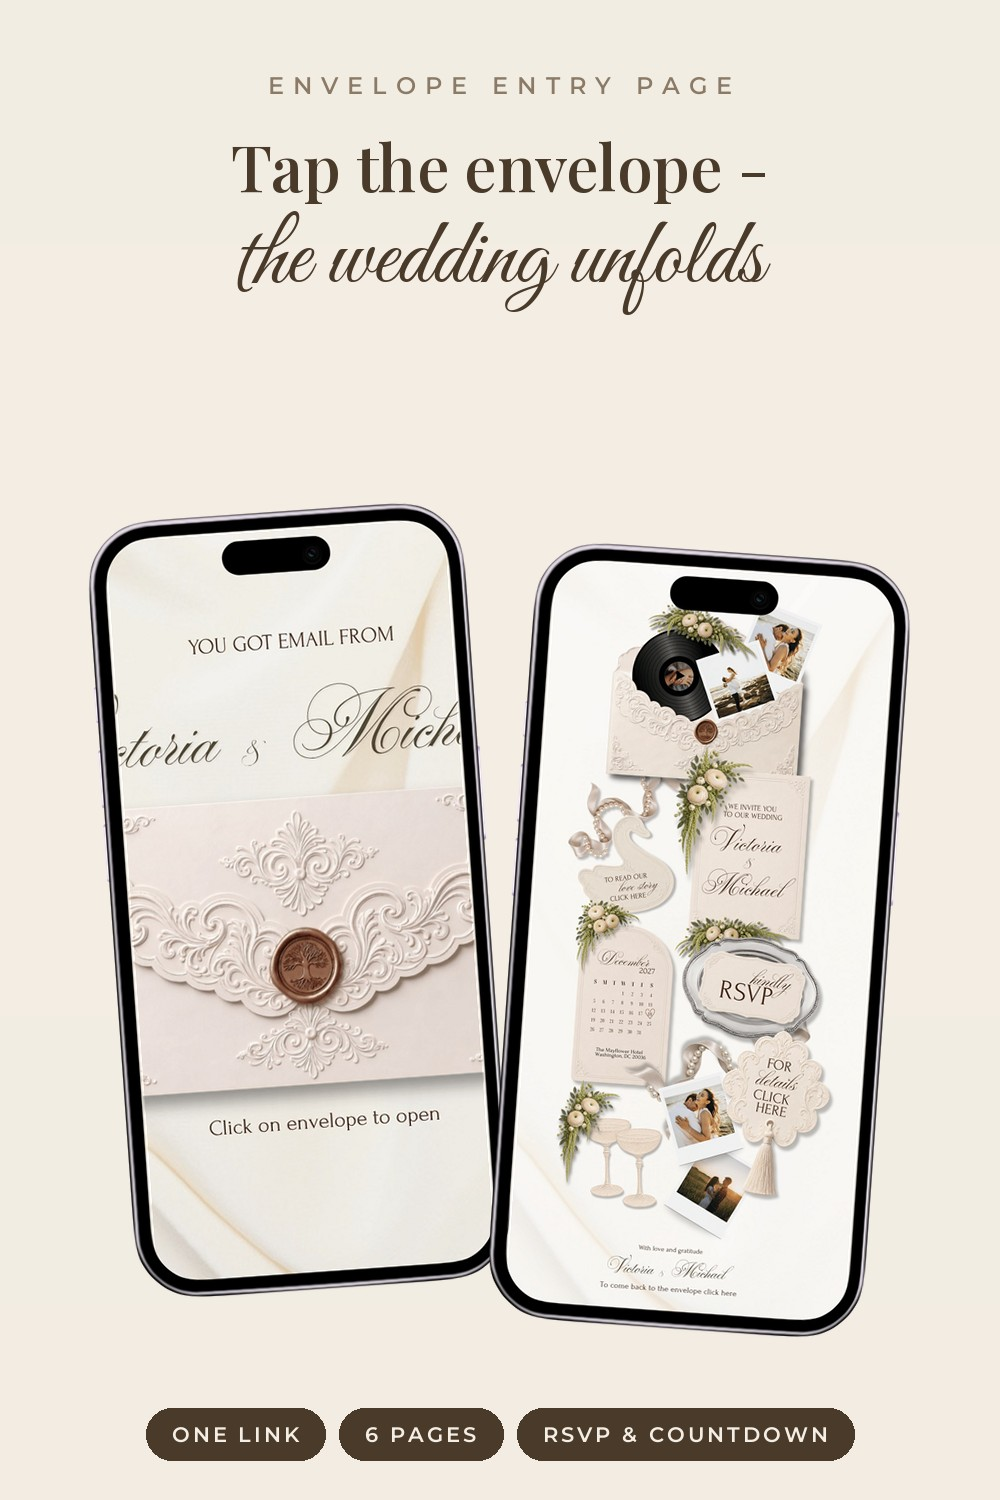
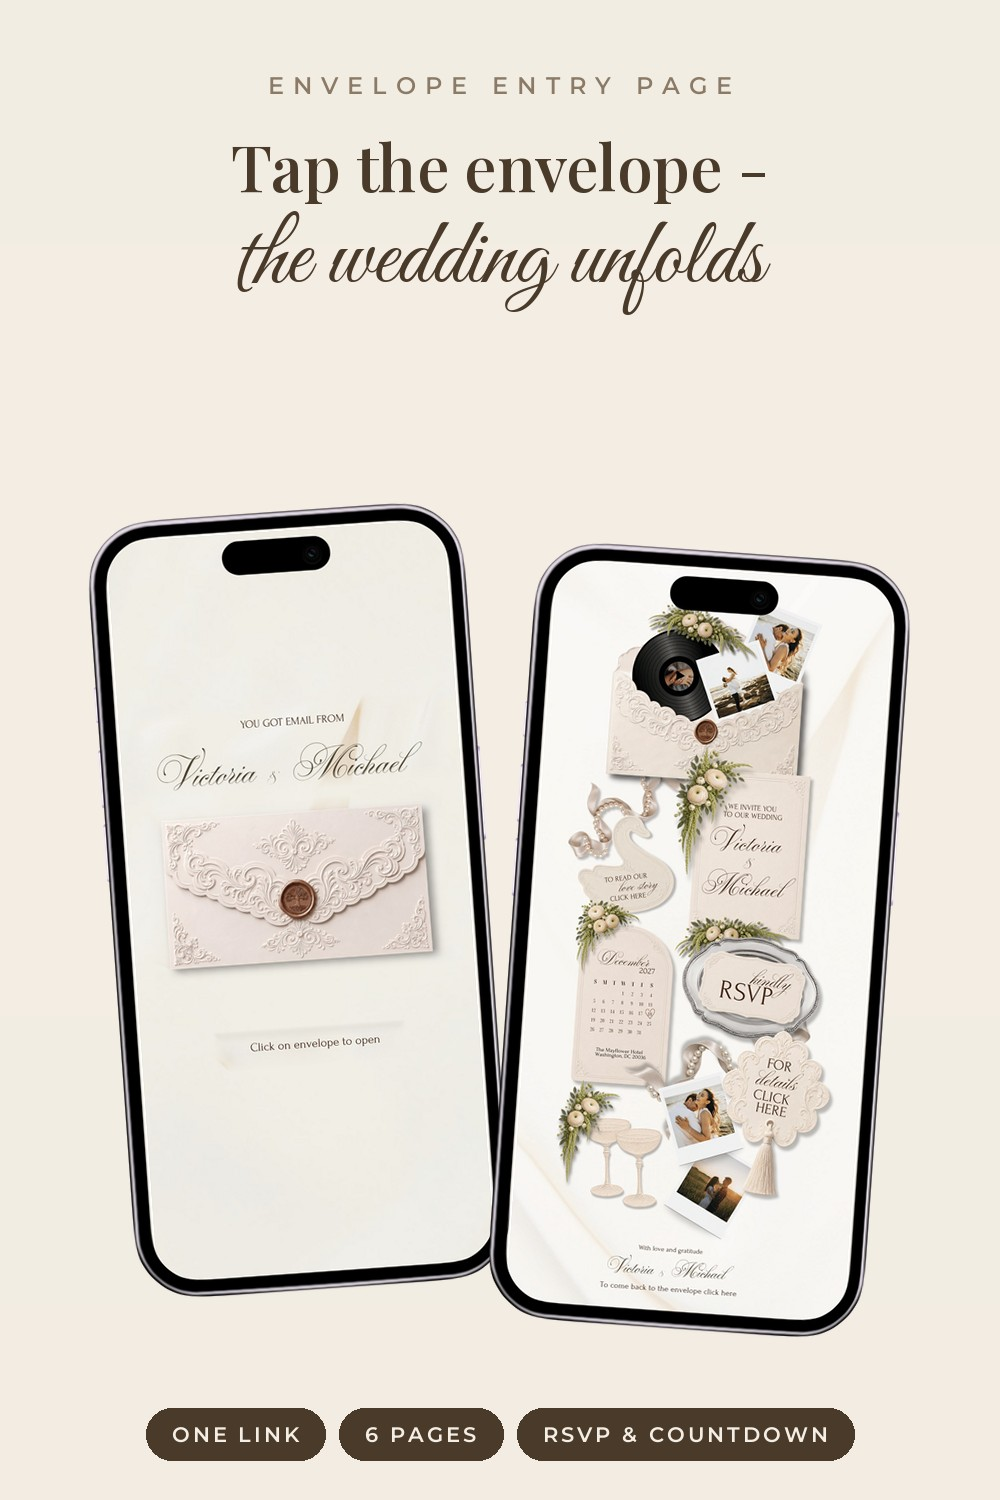
Duo pin: rebuild left phone with the mobile envelope layout (full names, large envelope)
Claude-Session: https://claude.ai/code/session_011kmtsDqSjDmuRsYCGyqzjP

Changed region(s): [[0.124, 0.3987, 0.496, 0.8587], [0.279, 0.3987, 0.31, 0.4293], [0.248, 0.828, 0.279, 0.8587]]

diff --git a/pins/victoria-michael-website/make_pins.py b/pins/victoria-michael-website/make_pins.py
@@ -429,6 +429,37 @@ def pin_vinyl():
     save(img, "pin-vinyl.jpg")
 
 
+
+
+def mobile_envelope_screen():
+    """Rebuild the mobile rendering of the envelope entry page: silk
+    background with the names, envelope and caption restacked large,
+    matching how the live Canva site reflows on a phone."""
+    p1 = src("p1-envelope.jpg")
+    W1, H1 = p1.size
+    sw, sh = 747, 1622
+    scr = p1.crop((int(W1*0.765), 0, W1, H1)).resize((sw, sh), Image.LANCZOS)
+    scr = scr.filter(ImageFilter.GaussianBlur(6))
+
+    def feather_paste(dst, piece, cx, cy, feather=36):
+        mask = Image.new("L", piece.size, 255)
+        md = ImageDraw.Draw(mask)
+        w2, h2 = piece.size
+        for i in range(feather):
+            v = int(255 * i / feather)
+            md.rectangle((i, i, w2 - 1 - i, h2 - 1 - i), outline=v)
+        dst.paste(piece, (int(cx - w2 / 2), int(cy - h2 / 2)), mask)
+
+    def piece(x0, y0, x1, y1, out_w):
+        c = p1.crop((int(W1*x0), int(H1*y0), int(W1*x1), int(H1*y1)))
+        return c.resize((out_w, int(c.height * out_w / c.width)), Image.LANCZOS)
+
+    feather_paste(scr, piece(0.24, 0.09, 0.76, 0.335, 700), sw/2, 470)
+    feather_paste(scr, piece(0.265, 0.325, 0.745, 0.785, 664), sw/2, 780)
+    feather_paste(scr, piece(0.36, 0.755, 0.64, 0.855, 420), sw/2, 1130)
+    return scr
+
+
 # ---------------------------------------------------------------- pin 10: envelope -> menu duo
 def pin_duo():
     img = canvas().convert("RGBA")
@@ -437,9 +468,7 @@ def pin_duo():
     y = headline(d, 122, ["Tap the envelope -"], 64)
     y = script_line(d, y + 2, "the wedding unfolds", 94)
 
-    p1 = src("p1-envelope.jpg")
-    env = p1.crop((int(p1.width*0.28), 0, int(p1.width*0.72), p1.height))
-    ph1 = phone_with(env, 880).rotate(4, expand=True, resample=Image.BICUBIC)
+    ph1 = phone_with(mobile_envelope_screen(), 880).rotate(4, expand=True, resample=Image.BICUBIC)
     ph2 = phone_with(src("p2-menu.jpg"), 880).rotate(-4, expand=True, resample=Image.BICUBIC)
     paste_center(img, ph1, 300, 900)
     paste_center(img, ph2, 700, 940)
